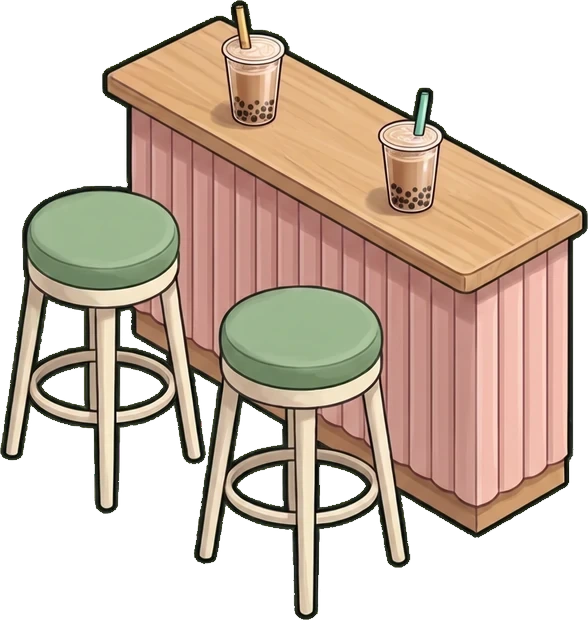
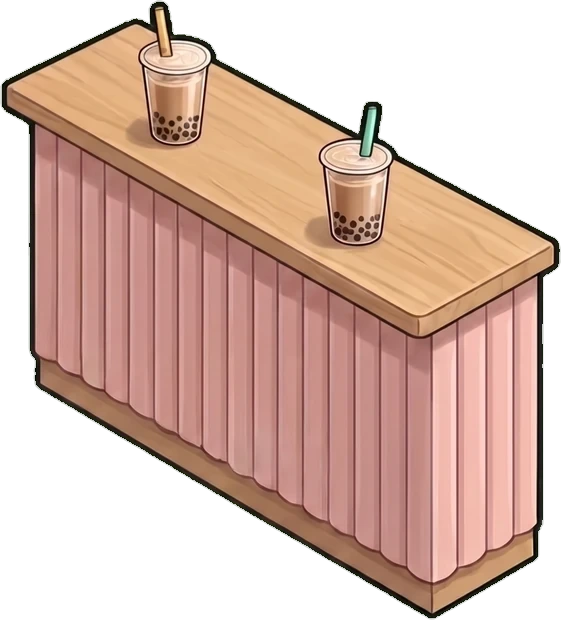
Boba: QA a6d31d8 fixes: a stool-less Standing Tea Bar with two standing spots at its open front; the second table's guest on its free back side; both pearl pot handles turned away from the urns

diff --git a/quest-board/app/src/27b_skins.js b/quest-board/app/src/27b_skins.js
@@ -120,12 +120,12 @@ autoRoom("boba",{name:"Boba Shop",lv:16,cost:1500,coin:12,buy:1,startLv:16,step:
  help:{k:"New room",t:"Your Boba Shop is open",sub:"A small counter next to the Restaurant. It earns on its own, like everything here.",pts:[["Collect coins","Tap the coin bubble on The Loft."]]},
  items:[PL("bo_ctr","Pastel Counter",UP_S,"bbx_ctr",2.3,1.6,3.0,1.1,0,"Where the drinks get handed over.",{cust:[[3.8,3.2,-1,{wx:3.8,wy:1.25}]],fx:function(C){tipJar(C,"boba",4.75,1.9,30)}})/* Cal (v0.73 phone, twice): one working bar on the back wall, short of the stairs door (layout x 8.35): tea jars, urns, pearl cooker, shaker, fridge, pickup shelf; the counter in front with the barista's lane behind it. Earlier: "that character is layed on top of the table" and the counter floated: it was mirrored across its own footprint (and its shadow); now along the wall, a step out, the barista behind it */,PL("bo_urn","Tea Urns",UP_S,"bbx_urn",1.75,.15,1.5,.8,1,"Black, green, oolong."),PL("bo_pearl","Pearl Cooker",UP_S,"bbx_pearl",3.35,.15,1.1,.8,1,"Slow simmer, brown sugar.",{o:{dy:-46},
    /* QA room sweep 2026-11-14: the burner and wok stood on the floor against the wall; now on a steel prep stand at counter height */
-   fx:function(C){var X=roomSpread("boba",3.35,1.1,0),Y=roomSpread("boba",.15,.8,1);C.add(X+Y+1.8,lfBox(X+.06,Y+.05,0,.98,.7,46,"#aeb6bf",{top:"#d6dce2",l:"#a2aab3",r:"#7f8790"}))}}),["bo_scr","Menu Screen",UP_S,"","",0,0,0,"Cycles through today's drinks.",{fx:function(C){C.walls.push(lfFaceY(2.6,0,128,scrMenu(["Milk Tea","Taro","Matcha","Mango","Lychee","Thai Tea","Brown Sugar","Oolong"],LF.U*2.6,50)))}}],PL("bo_shelf","Tea Jar Wall",UP_S,"bbx_shelf",.15,.25,1.5,.6,1,"Every jar is a different leaf."),PL("bo_bench","Window Bench",UP_S,"bbx_bench",.2,2.0,1.1,3.4,0,"A long mint bench under the window.",{cust:[[1.8,4.2,-1]]}),PL("bo_table","Cafe Table",UP_S,"bbx_cafe",2.85,3.95,1.6,1.6,0,"Two stools and two drinks.",{o:{shs:.6},cust:[[4.75,4.85,-1]]}/* QA v0.74: at 4.4 the customer stood inside the moved table */),["bo_staff","Hire a Barista",UP_M,"","",0,0,0,"Remembers everyone's sugar level."],PL("bo_table2","Second Table",UP_S,"bbx_table",6.3,4.95,1.8,1.8,0,"Room for one more group.",{o:{shs:.6},cust:[[8.6,5.85,-1]]}),PL("bo_plant","Plant Shelf",UP_S,"bbx_plant",.06,1.2,.3,1.6,1,"Trailing plants and tea jars on a wall shelf. Good for photos.",{o:{dy:-46,h:1,nosh:1,nob:1}}),/* QA: it is a wall shelf (brackets), so it hangs and casts no floor shadow */PL("bo_shake","Shaker Station",UP_M,"bbx_shake",4.55,.15,1.3,.8,0,"The noise brings people in."),PL("bo_art","Tea Prints",UP_S,"bbx_art",6.0,.05,1.8,.05,1,"Two small prints above the urns.",{o:{dy:-66,nosh:1,nob:1,h:1}}),PL("bo_neon","Neon Cup Sign",UP_S,"bbx_neon",.3,.05,1.2,.1,1,"Very pink.",{o:{dy:-80,h:1,nosh:1,dk:60}})/* high over the tea jars: the left wall's front is the side door and the back wall's end the stairs */,/* QA (Cal's use check): at the front edge it faced out of the room; against the back wall after the pearl cooker */PL("bo_fridge","Bottle Fridge",UP_S,"bbx_fridge",5.95,.15,0.9,0.8,0,"Grab and go milk tea.",{cust:[[6.4,1.6,-1]]}),PL("bo_pickup","Pickup Shelf",UP_S,"bbx_pickup",6.95,.15,1.2,0.7,1,"Online orders, bagged and waiting.",{cust:[[7.55,1.6,-1]]}),/* Boba +15 (Cal 2026-11-17; plan shots/pending_art/rooms1117/boba_plus15.md, QA dae8715): tiers in their own footprints (sup + chained req),
+   fx:function(C){var X=roomSpread("boba",3.35,1.1,0),Y=roomSpread("boba",.15,.8,1);C.add(X+Y+1.8,lfBox(X+.06,Y+.05,0,.98,.7,46,"#aeb6bf",{top:"#d6dce2",l:"#a2aab3",r:"#7f8790"}))}}),["bo_scr","Menu Screen",UP_S,"","",0,0,0,"Cycles through today's drinks.",{fx:function(C){C.walls.push(lfFaceY(2.6,0,128,scrMenu(["Milk Tea","Taro","Matcha","Mango","Lychee","Thai Tea","Brown Sugar","Oolong"],LF.U*2.6,50)))}}],PL("bo_shelf","Tea Jar Wall",UP_S,"bbx_shelf",.15,.25,1.5,.6,1,"Every jar is a different leaf."),PL("bo_bench","Window Bench",UP_S,"bbx_bench",.2,2.0,1.1,3.4,0,"A long mint bench under the window.",{cust:[[1.8,4.2,-1]]}),PL("bo_table","Cafe Table",UP_S,"bbx_cafe",2.85,3.95,1.6,1.6,0,"Two stools and two drinks.",{o:{shs:.6},cust:[[4.75,4.85,-1]]}/* QA v0.74: at 4.4 the customer stood inside the moved table */),["bo_staff","Hire a Barista",UP_M,"","",0,0,0,"Remembers everyone's sugar level."],PL("bo_table2","Second Table",UP_S,"bbx_table",6.3,4.95,1.8,1.8,0,"Room for one more group.",{o:{shs:.6},cust:[[7.2,4.6,1]]}/* QA a6d31d8: on its free back side; at 8.6,5.85 the guest stood wedged against the Standing Tea Bar */),PL("bo_plant","Plant Shelf",UP_S,"bbx_plant",.06,1.2,.3,1.6,1,"Trailing plants and tea jars on a wall shelf. Good for photos.",{o:{dy:-46,h:1,nosh:1,nob:1}}),/* QA: it is a wall shelf (brackets), so it hangs and casts no floor shadow */PL("bo_shake","Shaker Station",UP_M,"bbx_shake",4.55,.15,1.3,.8,0,"The noise brings people in."),PL("bo_art","Tea Prints",UP_S,"bbx_art",6.0,.05,1.8,.05,1,"Two small prints above the urns.",{o:{dy:-66,nosh:1,nob:1,h:1}}),PL("bo_neon","Neon Cup Sign",UP_S,"bbx_neon",.3,.05,1.2,.1,1,"Very pink.",{o:{dy:-80,h:1,nosh:1,dk:60}})/* high over the tea jars: the left wall's front is the side door and the back wall's end the stairs */,/* QA (Cal's use check): at the front edge it faced out of the room; against the back wall after the pearl cooker */PL("bo_fridge","Bottle Fridge",UP_S,"bbx_fridge",5.95,.15,0.9,0.8,0,"Grab and go milk tea.",{cust:[[6.4,1.6,-1]]}),PL("bo_pickup","Pickup Shelf",UP_S,"bbx_pickup",6.95,.15,1.2,0.7,1,"Online orders, bagged and waiting.",{cust:[[7.55,1.6,-1]]}),/* Boba +15 (Cal 2026-11-17; plan shots/pending_art/rooms1117/boba_plus15.md, QA dae8715): tiers in their own footprints (sup + chained req),
    window decals, two new pieces in the open front-right quarter (clear of the mat-to-stairs walk), a second barista, afternoon sun */
-PL("bo_ctr2","Terrazzo Counter",UP_M,"bbx_ctr2",2.3,1.6,3.0,1.1,0,"Pink terrazzo and a brass kick rail. The line moves faster in style.",{cust:[[3.8,3.2,-1,{wx:3.8,wy:1.25}]],fx:function(C){tipJar(C,"boba",4.75,1.9,30)}}),PL("bo_bench2","Velvet Window Booth",UP_M,"bbx_bench2",.2,2.0,1.1,3.4,0,"Sage velvet under the window. Nobody leaves after one drink.",{cust:[[1.8,4.2,-1]]}),["bo_tables2","Marble Cafe Sets",UP_M,"bbx_cafe2","",0,0,0,"White marble and brass at both tables.",{art:[["bbx_cafe2",2.85,3.95,1.6,1.6,0,{flip:0,shs:.6}],["bbx_cafe2",6.3,4.95,1.8,1.8,0,{flip:0,shs:.6}]],cust:[[4.75,4.85,-1],[8.6,5.85,-1]]}],
+PL("bo_ctr2","Terrazzo Counter",UP_M,"bbx_ctr2",2.3,1.6,3.0,1.1,0,"Pink terrazzo and a brass kick rail. The line moves faster in style.",{cust:[[3.8,3.2,-1,{wx:3.8,wy:1.25}]],fx:function(C){tipJar(C,"boba",4.75,1.9,30)}}),PL("bo_bench2","Velvet Window Booth",UP_M,"bbx_bench2",.2,2.0,1.1,3.4,0,"Sage velvet under the window. Nobody leaves after one drink.",{cust:[[1.8,4.2,-1]]}),["bo_tables2","Marble Cafe Sets",UP_M,"bbx_cafe2","",0,0,0,"White marble and brass at both tables.",{art:[["bbx_cafe2",2.85,3.95,1.6,1.6,0,{flip:0,shs:.6}],["bbx_cafe2",6.3,4.95,1.8,1.8,0,{flip:0,shs:.6}]],cust:[[4.75,4.85,-1],[7.2,4.6,1]]}],
 PL("bo_scr2","Light Box Menu",UP_M,"bbx_scr2",2.67,.03,1.3,.05,0,"Every drink lit up like a photo.",{o:{dy:-104,nosh:1,nob:1,h:1}}),PL("bo_pearl2","Twin Pearl Cookers",UP_S,"bbx_pearl2",3.35,.15,1.1,.8,1,"Two pots on the go. The pearls never run out.",{o:{dy:-46},fx:function(C){var X=roomSpread("boba",3.35,1.1,0),Y=roomSpread("boba",.15,.8,1);C.add(X+Y+1.8,lfBox(X+.06,Y+.05,0,.98,.7,46,"#aeb6bf",{top:"#d6dce2",l:"#a2aab3",r:"#7f8790"}))}}),PL("bo_shake2","Cup Sealer Station",UP_M,"bbx_shake2",4.55,.15,1.3,.8,0,"Shake, seal, hand it over."),PL("bo_fridge2","Glass Door Fridge",UP_S,"bbx_fridge2",5.95,.15,0.9,0.8,0,"A tall lit fridge of bottled milk teas.",{cust:[[6.4,1.6,-1]]}),
 PL("bo_shelf2","Tea Canister Wall",UP_M,"bbx_shelf2",.15,.25,1.5,.6,1,"Tins and jars of loose leaf, all labelled by hand."),PL("bo_plant2","Trailing Pothos Shelf",UP_S,"bbx_plant2",.06,1.2,.3,1.6,1,"The pothos took over. Nobody minds.",{o:{dy:-46,h:1,nosh:1,nob:1}}),PL("bo_neon2","Big Neon Cup",UP_M,"bbx_neon2",.3,.05,1.2,.1,1,"Brighter, bigger, pearls dripping in neon.",{o:{dy:-80,h:1,nosh:1,dk:60},light:[.9,.2,90,"#ff8ec8",1.8,.45]}),
-["bo_decal","Window Decals",UP_S,"bbx_decal","",0,0,0,"Frosted cup decals on the big window.",{art:["bbx_decal",.02,2.95,.1,1.6,0,{ctr:1,dy:-50,nosh:1,nob:1}]}],PL("bo_bar","Standing Tea Bar",UP_M,"bbx_bar",8.86,5.45,1.1,1.15,0,"A high bar by the door for a quick one.",{sit:[[9.05,6.95,1,10,1],[9.65,6.95,1,10,1]]}),PL("bo_aframe","Chalk A-Frame",UP_S,"bbx_aframe",9.5,2.95,.5,.5,0,"A doodle of today's drink by the door."),["bo_staff2","Hire a Second Barista",UP_M,"","",0,0,0,"Shakes and seals while the first one takes orders."],["bo_sun","Afternoon Sun",UP_S,"","",0,0,0,"Warm light through the big window in the afternoon.",{light:[1.4,4.0,30,"#ffe2a8",3.2,.4]}],
+["bo_decal","Window Decals",UP_S,"bbx_decal","",0,0,0,"Frosted cup decals on the big window.",{art:["bbx_decal",.02,2.95,.1,1.6,0,{ctr:1,dy:-50,nosh:1,nob:1}]}],PL("bo_bar","Standing Tea Bar",UP_M,"bbx_bar",8.99,5.58,.85,.9,0,"A high bar by the door for a quick one.",{cust:[[9.05,6.95,1,{fxwall:1}],[9.65,6.95,1,{fxwall:1}]]}),PL("bo_aframe","Chalk A-Frame",UP_S,"bbx_aframe",9.5,2.95,.5,.5,0,"A doodle of today's drink by the door."),["bo_staff2","Hire a Second Barista",UP_M,"","",0,0,0,"Shakes and seals while the first one takes orders."],["bo_sun","Afternoon Sun",UP_S,"","",0,0,0,"Warm light through the big window in the afternoon.",{light:[1.4,4.0,30,"#ffe2a8",3.2,.4]}],
  ["bo_dess","Open the Dessert Parlor",2000,"","",0,0,0,"Stairs up to a new room above.",{g:"Expansion",opens:"dessert",lv:22}]]});
 /* ---- dessert: a pink parlor, tree in the middle ----
    Laid out in zones like reference patisseries (Cal, v0.74: "very randomly placed. Run a reference check of a similar room"):
